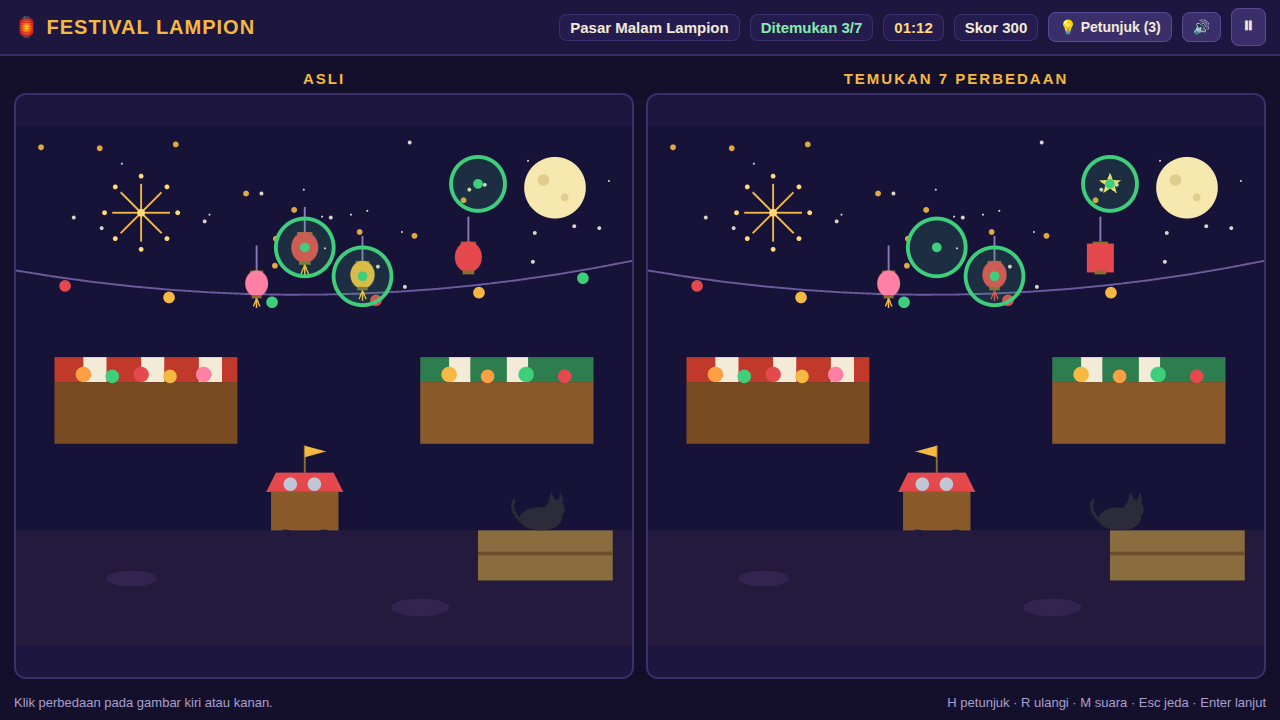
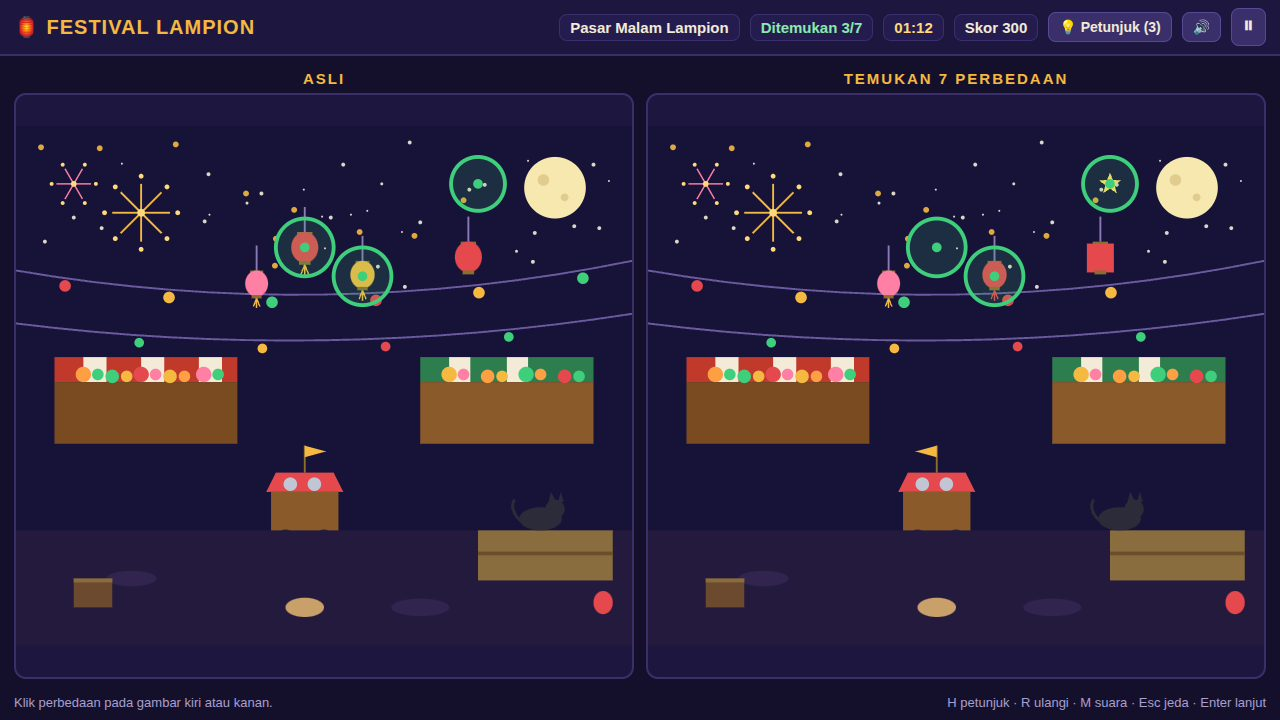
Upgrade: 6th scene Pantai Senja + richer scenes (best-spot-the-difference-game-20261121-0451 entry)

diff --git a/game/src/scenes.js b/game/src/scenes.js
@@ -1,4 +1,4 @@
-// Festival Lampion — the five scenes as data.
+// Festival Lampion — the six scenes as data.
 // Each scene is a list of drawable elements plus seven differences.
 // render.js turns this data into two SVG panels; the right panel is the
 // same scene with the seven differences applied. Positions are in the
@@ -155,6 +155,93 @@ function book(x, y, w, h, color, id) {
   return R(x, y, w, h, color, { id: id, stroke: '#00000033', sw: 1 });
 }
 
+function seagull(x, y, s, id) {
+  return G([
+    PA('M ' + (x - 10 * s) + ' ' + y + ' Q ' + (x - 5 * s) + ' ' + (y - 7 * s) + ' ' + x + ' ' + y + ' Q ' + (x + 5 * s) + ' ' + (y - 7 * s) + ' ' + (x + 10 * s) + ' ' + y, 'none', '#2b2b3a', 2)
+  ], { id: id });
+}
+
+function kite(x, y, s, body, id) {
+  return G([
+    PG(x + ' ' + (y - 16 * s) + ' ' + (x + 12 * s) + ' ' + y + ' ' + x + ' ' + (y + 16 * s) + ' ' + (x - 12 * s) + ' ' + y, body),
+    PA('M ' + x + ' ' + (y + 16 * s) + ' L ' + (x - 4 * s) + ' ' + (y + 30 * s) + ' L ' + (x + 3 * s) + ' ' + (y + 42 * s), 'none', '#f3ead8', 1.5),
+    C(x - 4 * s, y + 30 * s, 2.5 * s, '#f5b942'),
+    C(x + 3 * s, y + 42 * s, 2.5 * s, '#e5484d')
+  ], { id: id });
+}
+
+function umbrella(x, y, s, canopy, id) {
+  return G([
+    PA('M ' + x + ' ' + y + ' L ' + x + ' ' + (y + 46 * s), 'none', '#8a6d2f', 3),
+    PA('M ' + (x - 34 * s) + ' ' + (y + 6 * s) + ' Q ' + x + ' ' + (y - 22 * s) + ' ' + (x + 34 * s) + ' ' + (y + 6 * s) + ' Z', canopy),
+    PA('M ' + (x - 17 * s) + ' ' + (y + 3 * s) + ' Q ' + (x - 8 * s) + ' ' + (y - 12 * s) + ' ' + x + ' ' + (y + 4 * s), 'none', '#f3ead8', 2),
+    PA('M ' + (x + 17 * s) + ' ' + (y + 3 * s) + ' Q ' + (x + 8 * s) + ' ' + (y - 12 * s) + ' ' + x + ' ' + (y + 4 * s), 'none', '#f3ead8', 2)
+  ], { id: id });
+}
+
+function palm(x, y, s, id) {
+  return G([
+    PA('M ' + x + ' ' + y + ' Q ' + (x + 8 * s) + ' ' + (y - 40 * s) + ' ' + (x + 2 * s) + ' ' + (y - 80 * s), 'none', '#8a5a2b', 6 * s),
+    PA('M ' + (x + 2 * s) + ' ' + (y - 80 * s) + ' Q ' + (x - 28 * s) + ' ' + (y - 100 * s) + ' ' + (x - 54 * s) + ' ' + (y - 84 * s), 'none', '#2f7a3d', 5 * s),
+    PA('M ' + (x + 2 * s) + ' ' + (y - 80 * s) + ' Q ' + (x + 30 * s) + ' ' + (y - 102 * s) + ' ' + (x + 56 * s) + ' ' + (y - 86 * s), 'none', '#3d8a4f', 5 * s),
+    PA('M ' + (x + 2 * s) + ' ' + (y - 80 * s) + ' Q ' + (x - 8 * s) + ' ' + (y - 108 * s) + ' ' + (x - 26 * s) + ' ' + (y - 118 * s), 'none', '#3d8a4f', 5 * s),
+    PA('M ' + (x + 2 * s) + ' ' + (y - 80 * s) + ' Q ' + (x + 14 * s) + ' ' + (y - 110 * s) + ' ' + (x + 30 * s) + ' ' + (y - 118 * s), 'none', '#2f7a3d', 5 * s),
+    C(x - 4 * s, y - 76 * s, 4 * s, '#6b4a2f'),
+    C(x + 8 * s, y - 74 * s, 4 * s, '#6b4a2f')
+  ], { id: id });
+}
+
+function boat(x, y, s, id) {
+  return G([
+    PA('M ' + (x - 26 * s) + ' ' + y + ' L ' + (x + 26 * s) + ' ' + y + ' L ' + (x + 18 * s) + ' ' + (y + 12 * s) + ' L ' + (x - 18 * s) + ' ' + (y + 12 * s) + ' Z', '#8a5a2b'),
+    PA('M ' + x + ' ' + y + ' L ' + x + ' ' + (y - 44 * s), 'none', '#6b4220', 3),
+    PG(x + ' ' + (y - 42 * s) + ' ' + (x + 22 * s) + ' ' + (y - 6 * s) + ' ' + x + ' ' + (y - 6 * s), '#f3ead8'),
+    PG(x + ' ' + (y - 40 * s) + ' ' + (x - 14 * s) + ' ' + (y - 8 * s) + ' ' + x + ' ' + (y - 8 * s), '#e5484d')
+  ], { id: id });
+}
+
+function crab(x, y, s, id) {
+  return G([
+    E(x, y, 14 * s, 9 * s, '#e5484d'),
+    C(x - 6 * s, y - 10 * s, 2.5 * s, '#2b2b3a'),
+    C(x + 6 * s, y - 10 * s, 2.5 * s, '#2b2b3a'),
+    PA('M ' + (x - 10 * s) + ' ' + (y - 8 * s) + ' L ' + (x - 18 * s) + ' ' + (y - 14 * s), 'none', '#e5484d', 3),
+    PA('M ' + (x + 10 * s) + ' ' + (y - 8 * s) + ' L ' + (x + 18 * s) + ' ' + (y - 14 * s), 'none', '#e5484d', 3),
+    C(x - 19 * s, y - 15 * s, 3.5 * s, '#e5484d'),
+    C(x + 19 * s, y - 15 * s, 3.5 * s, '#e5484d'),
+    PA('M ' + (x - 14 * s) + ' ' + (y + 4 * s) + ' L ' + (x - 22 * s) + ' ' + (y + 8 * s), 'none', '#e5484d', 2),
+    PA('M ' + (x + 14 * s) + ' ' + (y + 4 * s) + ' L ' + (x + 22 * s) + ' ' + (y + 8 * s), 'none', '#e5484d', 2)
+  ], { id: id });
+}
+
+function sandcastle(x, y, s, id) {
+  return G([
+    R(x - 26 * s, y, 52 * s, 26 * s, '#e8c88a'),
+    R(x - 18 * s, y - 14 * s, 14 * s, 14 * s, '#e8c88a'),
+    R(x + 4 * s, y - 14 * s, 14 * s, 14 * s, '#e8c88a'),
+    R(x - 4 * s, y - 30 * s, 10 * s, 16 * s, '#e8c88a'),
+    PA('M ' + (x + 1 * s) + ' ' + (y - 30 * s) + ' L ' + (x + 1 * s) + ' ' + (y - 46 * s), 'none', '#8a6d2f', 2),
+    PG((x + 1 * s) + ' ' + (y - 46 * s) + ' ' + (x + 18 * s) + ' ' + (y - 41 * s) + ' ' + (x + 1 * s) + ' ' + (y - 36 * s), '#e5484d'),
+    C(x - 12 * s, y + 12 * s, 2 * s, '#d9b06a'),
+    C(x + 12 * s, y + 12 * s, 2 * s, '#d9b06a')
+  ], { id: id });
+}
+
+function bucket(x, y, s, color, id) {
+  return G([
+    PA('M ' + (x - 14 * s) + ' ' + y + ' L ' + (x + 14 * s) + ' ' + y + ' L ' + (x + 10 * s) + ' ' + (y + 22 * s) + ' L ' + (x - 10 * s) + ' ' + (y + 22 * s) + ' Z', color),
+    PA('M ' + (x - 14 * s) + ' ' + y + ' Q ' + x + ' ' + (y - 16 * s) + ' ' + (x + 14 * s) + ' ' + y, 'none', '#8a6d2f', 2.5)
+  ], { id: id });
+}
+
+function beachBall(x, y, s, id) {
+  return G([
+    C(x, y, 16 * s, '#f3ead8'),
+    PA('M ' + x + ' ' + y + ' L ' + (x - 14 * s) + ' ' + (y - 8 * s) + ' A ' + 16 * s + ' ' + 16 * s + ' 0 0 1 ' + (x + 2 * s) + ' ' + (y - 16 * s) + ' Z', '#e5484d'),
+    PA('M ' + x + ' ' + y + ' L ' + (x + 14 * s) + ' ' + (y - 4 * s) + ' A ' + 16 * s + ' ' + 16 * s + ' 0 0 1 ' + (x + 4 * s) + ' ' + (y + 15 * s) + ' Z', '#3f7fd0')
+  ], { id: id });
+}
+
 // ---- scene builders ----
 function buildMarket() {
   const elements = [];
@@ -247,6 +334,35 @@ function buildMarket() {
     PG('563 391 566 380 569 390', '#2b2b3a'),
     PA('M 524 410 Q 512 398 518 388', 'none', '#2b2b3a', 3)
   ], { id: 'cat1' }));
+  // ---- enrichment: denser night-market sky, stalls and ground ----
+  // extra stars in the sky (kept clear of the added-star zone at 480,60)
+  [[200, 50, 2], [240, 80, 1.5], [340, 40, 2], [420, 100, 2], [520, 130, 1.5], [600, 40, 2], [30, 120, 2], [380, 60, 1.5]].forEach(function (s) {
+    elements.push(C(s[0], s[1], s[2], '#f3ead8', { op: 0.9 }));
+  });
+  // a second, smaller firework burst
+  const fw2 = [];
+  for (let i = 0; i < 6; i++) {
+    const a = (i * Math.PI) / 3;
+    fw2.push(PA('M 60 60 L ' + (60 + Math.cos(a) * 18).toFixed(1) + ' ' + (60 + Math.sin(a) * 18).toFixed(1), 'none', '#ff7fa5', 1.5));
+    fw2.push(C(60 + Math.cos(a) * 23, 60 + Math.sin(a) * 23, 2, '#ffd97a'));
+  }
+  fw2.push(C(60, 60, 3, '#ffd97a'));
+  elements.push(G(fw2));
+  // a second string of lights, lower and smaller, on its own wire
+  elements.push(PA('M 0 205 Q 320 245 640 195', 'none', '#6b5a9e', 2));
+  [[128, 225], [256, 231], [384, 229], [512, 219]].forEach(function (b, i) {
+    elements.push(C(b[0], b[1], 5, ['#3fce7c', '#f5b942', '#e5484d', '#3fce7c'][i]));
+  });
+  // more goods on the stall counters
+  [[85, 258, 6, '#3fce7c'], [115, 260, 6, '#f5b942'], [145, 258, 6, '#ff7fa5'], [175, 260, 6, '#ff9f43'], [210, 258, 6, '#3fce7c'],
+   [465, 258, 6, '#ff7fa5'], [505, 260, 6, '#f5b942'], [545, 258, 6, '#ff9f43'], [585, 260, 6, '#3fce7c']].forEach(function (g) {
+    elements.push(C(g[0], g[1], g[2], g[3]));
+  });
+  // crates, a sack and a small ground lantern
+  elements.push(R(60, 470, 40, 30, '#6b4a2f'));
+  elements.push(R(60, 470, 40, 4, '#8a6d3f'));
+  elements.push(E(300, 500, 20, 10, '#c9a06a'));
+  elements.push(E(610, 495, 10, 12, '#e5484d'));
   const bulb6 = bulbChildren[5];
   return {
     id: 'market',
@@ -304,6 +420,31 @@ function buildReef() {
   elements.push(C(115, 432, 4, '#f5b942'));
   elements.push(C(130, 435, 4, '#f5b942'));
   elements.push(PG(starPoints(520, 470, 14, 6), '#ff9f43', { id: 'starfish1' }));
+  // ---- enrichment: more reef life and depth ----
+  // an extra light beam
+  elements.push(PG('440 0 480 0 440 280 400 280', '#ffffff', { op: 0.05 }));
+  // two more small fish (kept away from the difference fish)
+  elements.push(fish(90, 140, 0.8, '#ff7fa5', true, 'fishX1'));
+  elements.push(fish(540, 150, 0.85, '#3f7fd0', false, 'fishX2'));
+  // a jellyfish drifting near the surface
+  elements.push(G([
+    C(520, 120, 14, '#ff9f43', { op: 0.8 }),
+    PA('M 510 132 Q 512 150 508 162 M 520 134 Q 520 152 522 164 M 530 132 Q 528 150 532 162', 'none', '#ff9f43', 2)
+  ], { id: 'jelly1' }));
+  // a second bubble trail rising from the sunken chest
+  elements.push(G([
+    C(120, 420, 4, '#ffffff', { op: 0.6 }),
+    C(128, 395, 3, '#ffffff', { op: 0.6 }),
+    C(118, 370, 4, '#ffffff', { op: 0.6 })
+  ], { id: 'chestBubbles' }));
+  // two more corals and seaweed on the sand
+  elements.push(coral(310, 445, 0.6, '#ff9f43', 'coralX1'));
+  elements.push(coral(420, 445, 0.7, '#3fce7c', 'coralX2'));
+  elements.push(PA('M 480 540 C 470 505 490 490 480 460', 'none', '#2f7a3d', 4));
+  elements.push(PA('M 150 540 C 160 510 140 495 150 470', 'none', '#3d8a4f', 4));
+  // more rocks on the seabed
+  elements.push(E(200, 500, 30, 12, '#7a7a7a'));
+  elements.push(E(420, 505, 26, 10, '#8a8a8a'));
   return {
     id: 'reef',
     name: 'Terumbu Karang',
@@ -354,6 +495,31 @@ function buildGarden() {
   elements.push(butterfly(200, 180, 1, '#ff9f43', 'bfly1'));
   elements.push(butterfly(430, 160, 0.9, '#b388ff', 'bfly2'));
   elements.push(snail(200, 470, 1, 'snail1'));
+  // ---- enrichment: more garden life ----
+  // three more flowers between the path and the edges
+  elements.push(flower(250, 380, 0.9, '#ff7fa5', '#ffd23f', 'flowerX1'));
+  elements.push(flower(340, 390, 0.85, '#3f7fd0', '#ffffff', 'flowerX2'));
+  elements.push(flower(600, 300, 0.9, '#b388ff', '#ffd23f', 'flowerX3'));
+  // one more mushroom and a bush
+  elements.push(mushroom(120, 450, 0.85, '#b388ff', 'mushX1'));
+  elements.push(G([
+    C(40, 470, 22, '#2f7a3d'),
+    C(60, 462, 18, '#3d8a4f'),
+    C(24, 462, 16, '#3d8a4f')
+  ], { id: 'bush1' }));
+  // a third butterfly and sparkles in the air
+  elements.push(butterfly(330, 120, 0.85, '#ff9f43', 'bflyX1'));
+  [[300, 150], [380, 200], [500, 250], [220, 260]].forEach(function (p) {
+    elements.push(PG(starPoints(p[0], p[1], 6, 2.5), '#ffe066', { op: 0.8 }));
+  });
+  // water droplets around the fountain
+  elements.push(C(280, 300, 3, '#7fb3d5', { op: 0.8 }));
+  elements.push(C(360, 300, 3, '#7fb3d5', { op: 0.8 }));
+  elements.push(C(320, 258, 3, '#7fb3d5', { op: 0.8 }));
+  // grass tufts
+  elements.push(PA('M 120 500 L 126 488 L 132 500 M 126 500 L 132 490 L 138 500', 'none', '#2f7a3d', 2));
+  elements.push(PA('M 480 500 L 486 488 L 492 500', 'none', '#2f7a3d', 2));
+  elements.push(PA('M 560 500 L 566 490 L 572 500', 'none', '#2f7a3d', 2));
   const fireflyChildren = [];
   FL.seededScatter(33, 6, 60, 60, 580, 300).forEach(function (p, i) {
     fireflyChildren.push(G([
@@ -426,6 +592,38 @@ function buildStation() {
   elements.push(PA('M 80 320 C 140 380 200 380 260 340', 'none', '#6b7280', 3));
   elements.push(PA('M 480 320 C 440 400 380 400 340 360', 'none', '#6b7280', 3));
   elements.push(robotArm(120, 430, 1, 'arm1'));
+  // ---- enrichment: more space around the station ----
+  // extra fixed stars (kept clear of the missing-star zone at 150,80
+  // and the added-star zone at 80,80)
+  [[50, 50, 2], [250, 40, 1.5], [400, 50, 2], [600, 60, 1.5], [40, 200, 2], [620, 200, 1.5]].forEach(function (s) {
+    elements.push(C(s[0], s[1], s[2], s[2] > 1.5 ? '#f3ead8' : '#f5b942', { op: 0.9 }));
+  });
+  // a small blue planet and a satellite
+  elements.push(G([
+    C(90, 140, 18, '#7fb3d5'),
+    C(84, 134, 4, '#5a8ab0'),
+    C(96, 146, 3, '#5a8ab0')
+  ], { id: 'planet2' }));
+  elements.push(G([
+    R(420, 60, 20, 10, '#c0c6d4'),
+    R(408, 62, 12, 6, '#3f7fd0'),
+    R(440, 62, 12, 6, '#3f7fd0'),
+    PA('M 430 70 L 436 84', 'none', '#c0c6d4', 2)
+  ], { id: 'sat1' }));
+  // two more lights on the control panel strip
+  elements.push(C(515, 303, 5, '#3fce7c'));
+  elements.push(C(535, 303, 5, '#f5b942'));
+  // a low cable across the floor and one short wall cable
+  elements.push(PA('M 40 510 Q 320 485 600 510', 'none', '#6b7280', 3));
+  elements.push(PA('M 60 340 Q 100 380 90 440', 'none', '#6b7280', 3));
+  // floating tools
+  elements.push(G([
+    R(200, 380, 16, 5, '#c0c6d4'),
+    C(218, 382, 3, '#e5484d')
+  ], { id: 'tool1' }));
+  elements.push(G([
+    R(420, 400, 14, 5, '#c0c6d4')
+  ], { id: 'tool2' }));
   return {
     id: 'station',
     name: 'Stasiun Luar Angkasa',
@@ -515,6 +713,37 @@ function buildBookshop() {
   elements.push(R(560, 478, 44, 10, '#3f7fd0'));
   elements.push(R(564, 468, 38, 10, '#e5484d'));
   elements.push(R(568, 458, 32, 10, '#3fce7c'));
+  // ---- enrichment: more books and bookshop warmth ----
+  // more books on the top and bottom shelves
+  elements.push(book(114, 88, 16, 32, '#ff7fa5'));
+  elements.push(book(134, 86, 18, 34, '#3fce7c'));
+  elements.push(book(114, 288, 16, 32, '#b388ff'));
+  elements.push(book(134, 286, 18, 34, '#3f7fd0'));
+  // a framed picture on the wall between the shelves and the ladder
+  elements.push(G([
+    R(245, 145, 50, 50, '#2e7d4f'),
+    C(270, 168, 13, '#f5b942'),
+    PA('M 255 190 L 270 176 L 285 190', 'none', '#f5b942', 2)
+  ], { id: 'poster1' }));
+  // a small wall shelf with two books
+  elements.push(R(340, 220, 90, 8, '#8a5a2b'));
+  elements.push(book(350, 194, 14, 26, '#e5484d'));
+  elements.push(book(368, 198, 12, 22, '#3fce7c'));
+  // a small plant on the reading table
+  elements.push(G([
+    R(536, 372, 16, 12, '#e5484d'),
+    E(544, 362, 10, 8, '#3d8a4f'),
+    E(538, 356, 7, 6, '#2f7a3d'),
+    E(550, 356, 7, 6, '#3d8a4f')
+  ], { id: 'plant1' }));
+  // a second stack of books on the floor
+  elements.push(R(56, 478, 44, 10, '#ff9f43'));
+  elements.push(R(60, 468, 38, 10, '#b388ff'));
+  // a hanging lamp from the ceiling
+  elements.push(G([
+    PA('M 200 0 L 200 44', 'none', '#2b2b3a', 2),
+    PG('182 44 218 44 210 68 190 68', '#f5b942')
+  ], { id: 'lamp1' }));
   return {
     id: 'bookshop',
     name: 'Toko Buku Senja',
@@ -533,4 +762,82 @@ function buildBookshop() {
   };
 }
 
-FL.SCENES = [buildMarket(), buildReef(), buildGarden(), buildStation(), buildBookshop()];
+function buildBeach() {
+  const elements = [];
+  // sunset sky in warm bands
+  elements.push(R(0, 0, 640, 80, '#ff9f43'));
+  elements.push(R(0, 80, 640, 80, '#ff7b5e'));
+  elements.push(R(0, 160, 640, 70, '#e86a8a'));
+  elements.push(R(0, 230, 640, 70, '#8a5a9e'));
+  // sun low on the horizon with a soft glow
+  elements.push(C(520, 210, 52, '#ffd23f', { op: 0.25 }));
+  elements.push(C(520, 210, 38, '#ffd23f'));
+  elements.push(C(508, 198, 8, '#ffe98a'));
+  // clouds
+  elements.push(E(110, 70, 34, 12, '#ffd9c0', { op: 0.85 }));
+  elements.push(E(140, 66, 26, 10, '#ffd9c0', { op: 0.85 }));
+  elements.push(E(360, 62, 26, 9, '#ffe0cc', { op: 0.8 }));
+  elements.push(E(300, 55, 30, 11, '#ffe0cc', { op: 0.8 }));
+  // kite (d1 missing)
+  elements.push(kite(170, 100, 1, '#3f7fd0', 'kite1'));
+  // seagulls (d5 count, keep 3 of 4)
+  elements.push(G([
+    seagull(330, 90, 1, 'gull1'),
+    seagull(370, 110, 0.9, 'gull2'),
+    seagull(410, 85, 1, 'gull3'),
+    seagull(450, 105, 0.9, 'gull4')
+  ], { id: 'seagulls' }));
+  // sea with waves and a sun-glitter path
+  elements.push(R(0, 300, 640, 120, '#2a6f8e'));
+  elements.push(R(0, 300, 640, 10, '#3d8aa8'));
+  elements.push(PA('M 480 300 L 560 300 L 600 420 L 440 420 Z', '#ffd23f', 'none', 0, { op: 0.25 }));
+  elements.push(PA('M 40 330 Q 90 322 140 330 Q 190 338 240 330', 'none', '#e8f4f8', 2.5));
+  elements.push(PA('M 380 345 Q 430 337 480 345 Q 530 353 580 345', 'none', '#e8f4f8', 2.5));
+  elements.push(PA('M 120 380 Q 170 372 220 380 Q 270 388 320 380', 'none', '#d9ecf2', 2.5));
+  elements.push(PA('M 430 395 Q 480 387 530 395 Q 580 403 620 395', 'none', '#d9ecf2', 2.5));
+  // sailboat (d6 flip)
+  elements.push(boat(300, 350, 1, 'boat1'));
+  // sand
+  elements.push(R(0, 420, 640, 120, '#e8c88a'));
+  elements.push(E(90, 470, 40, 10, '#d9b06a'));
+  elements.push(E(380, 510, 46, 10, '#d9b06a'));
+  // footprints
+  elements.push(E(240, 450, 5, 3, '#c9a06a'));
+  elements.push(E(252, 462, 5, 3, '#c9a06a'));
+  elements.push(E(240, 474, 5, 3, '#c9a06a'));
+  // palm tree
+  elements.push(palm(570, 420, 1, 'palm1'));
+  // beach umbrella (d2 color)
+  elements.push(umbrella(140, 390, 1, '#e5484d', 'umbrella1'));
+  // sandcastle
+  elements.push(sandcastle(320, 460, 1, 'castle1'));
+  // bucket and beach ball
+  elements.push(bucket(440, 470, 1, '#3fce7c', 'bucket1'));
+  elements.push(beachBall(230, 470, 1, 'ball1'));
+  // crab (d4 move)
+  elements.push(crab(500, 505, 1, 'crab1'));
+  // shell (d7 shape)
+  elements.push(C(90, 500, 12, '#f5b942', {
+    id: 'shellShape',
+    alt: R(78, 488, 24, 24, '#f5b942')
+  }));
+  elements.push(PA('M 82 500 L 98 500 M 86 494 L 94 506', 'none', '#c9a06a', 1.5));
+  return {
+    id: 'beach',
+    name: 'Pantai Senja',
+    sub: 'Level 6 · Senja di pantai',
+    bg: '#ff7b5e',
+    elements: elements,
+    differences: [
+      { id: 'd1', kind: 'missing', target: 'kite1', x: 170, y: 100, r: 30 },
+      { id: 'd2', kind: 'color', target: 'umbrella1', from: '#e5484d', to: '#3f7fd0', x: 140, y: 390, r: 32 },
+      { id: 'd3', kind: 'added', el: PG(starPoints(170, 505, 12, 5), '#ff9f43'), x: 170, y: 505, r: 28 },
+      { id: 'd4', kind: 'move', target: 'crab1', dx: 60, dy: 0, x: 500, y: 505, r: 32 },
+      { id: 'd5', kind: 'count', target: 'seagulls', keep: 3, x: 450, y: 105, r: 28 },
+      { id: 'd6', kind: 'flip', target: 'boat1', fx: 300, x: 300, y: 350, r: 34 },
+      { id: 'd7', kind: 'shape', target: 'shellShape', x: 90, y: 500, r: 30 }
+    ]
+  };
+}
+
+FL.SCENES = [buildMarket(), buildReef(), buildGarden(), buildStation(), buildBookshop(), buildBeach()];

diff --git a/game/index.html b/game/index.html
@@ -47,7 +47,7 @@
         <ul>
           <li>Dua gambar hampir sama. Klik <b>7 perbedaan</b> di gambar kiri atau kanan.</li>
           <li>Setiap temuan: <b>+100 poin</b>. Klik salah: <b>−5 detik</b>. Waktu: <b>90 detik</b>.</li>
-          <li>Petunjuk (H): <b>3× per level</b>. Lima adegan menantimu!</li>
+          <li>Petunjuk (H): <b>3× per level</b>. Enam adegan menantimu!</li>
         </ul>
       </div>
       <p id="menu-best" class="best">Skor terbaik: 0</p>
@@ -88,7 +88,7 @@
   <div id="game-complete-overlay" class="overlay hidden">
     <div class="card">
       <h1>🏮 Festival Selesai!</h1>
-      <p class="tagline">Kamu menemukan semua perbedaan di lima adegan. Terima kasih sudah bermain!</p>
+      <p class="tagline">Kamu menemukan semua perbedaan di enam adegan. Terima kasih sudah bermain!</p>
       <p id="final-score" class="tagline">Skor total: 0</p>
       <p id="final-best" class="tagline">Skor terbaik: 0</p>
       <p id="final-stars" class="stars">★★★★★★★★★★★★★★★</p>

diff --git a/game/src/config.js b/game/src/config.js
@@ -2,7 +2,7 @@
 var FL = window.FL || (window.FL = {});
 
 FL.CONFIG = {
-  levelCount: 5,
+  levelCount: 6,
   differencesPerLevel: 7,
   levelTimeSeconds: 90,
   hintsPerLevel: 3,

diff --git a/README.md b/README.md
@@ -4,9 +4,9 @@
 [![rank](https://make.fun/badge/best-spot-the-difference-game-20261121-0451/junobebe2-ux/spot-the-difference/rank.svg)](https://make.fun/bounty/best-spot-the-difference-game-20261121-0451/leaderboard?utm_source=github&utm_medium=readme&utm_campaign=best-spot-the-difference-game-20261121-0451)
 [![reward](https://make.fun/badge/best-spot-the-difference-game-20261121-0451/junobebe2-ux/spot-the-difference/reward.svg)](https://make.fun/bounty/best-spot-the-difference-game-20261121-0451?utm_source=github&utm_medium=readme&utm_campaign=best-spot-the-difference-game-20261121-0451)
 
-**Festival Lampion** — a spot-the-difference game with five original hand-drawn
+**Festival Lampion** — a spot-the-difference game with six original hand-drawn
 scenes (Lantern Night Market, Coral Reef, Enchanted Garden, Space Station,
-Twilight Bookshop), seven differences in each. All art is inline SVG drawn by
+Twilight Bookshop, Sunset Beach), seven differences in each. All art is inline SVG drawn by
 the game's own code — no image files, no network requests, fully offline.
 
 Find differences by clicking either panel, beat the 90-second timer, use
